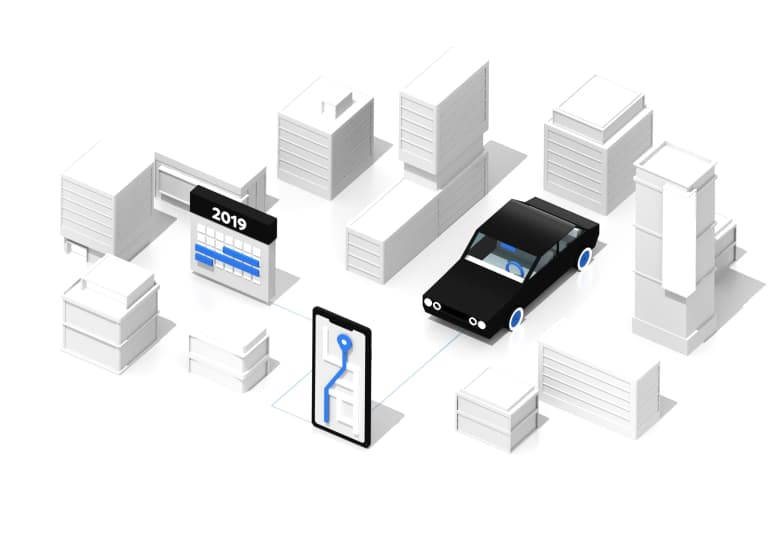
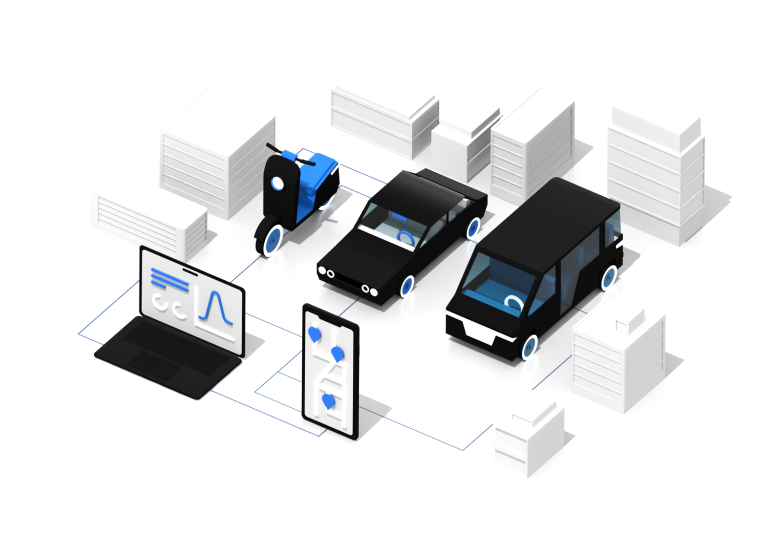
new rent page going live - ready for a/b/c test

Changed region(s): [[0.0613, 0.1194, 0.9808, 0.8955], [0.0613, 0.5373, 0.092, 0.5672]]

diff --git a/_includes/static/block-rent-main.html b/_includes/static/block-rent-main.html
@@ -27,13 +27,17 @@
 
       <section id="section-os">
         <div class="row">
-          <div class="col-lg-10 offset-lg-2">
+          <div class="col-lg-9 offset-lg-3">
 
             <div class="row">
               <div class="col-md-5">
-                <h2 class="page-heading">Digitalize your existing operations or get your business off the ground</h2>
+                <h2 class="page-heading">Getting your booking rates up is easier than you think</h2>
                 <p class="lead">
-                  Take full control of your rental business with our all-in-one platform. Whether you’re operating an existing fleet or just getting started, we’ll provide you with industry-leading software and hardware to stay ahead of the competition.
+                  Revamp your rental company with minimal effort. Our software can help you get your utilization rate above <strong class="text-blue">90%</strong>.
+                </p>
+                <br>
+                <p class="lead">
+                  And we move fast - let's get your new-and-improved rental company ready within <strong class="text-blue"> 6 weeks</strong>.
                 </p>
               </div>
               <div class="col-sm-7 offset-sm-2 offset-md-0">
@@ -49,55 +53,75 @@
       <div class="product-area">
 
         <section id="section-value" class="product-section grid-section pb-5" >
-          <div class="wunder-bg right top-1"></div>
+          <div class="wunder-bg left top-1"></div>
           <div class="row">
-            <div class="col-lg-10 offset-lg-2">
-              <h2 class="page-heading mb-2">Your Benefits</h2>
-              <p class="lead text-grey2 mb-4">Here are a few of the ways Wunder Rent can help you make the most of your business:</p>
-              <div class="row">
-                <div class="col-lg-11 offset-lg-1">
-
-                  <div class="icon-grid__grid">
-                    <div class="icon-grid__item without-icon">
-                      <!--<img src="/uploads/global/parking-meter.svg" alt="Parking Meter icon" /> -->
-                      <h3 class="mt-2">Increase Utilization Rate</h3>
-                      <p class="mt-2">Never let your vehicles stand idle again.</p>
-                    </div>
-                    <div class="icon-grid__item without-icon">
-                      <!--<img src="/uploads/global/dollarbill.svg" alt="Dollar Bill" > -->
-                      <h3 class="mt-2">Digitize your operations</h3>
-                      <p class="mt-2">Bring your fleet into the 21st century.</p>
-                    </div>
-                    <div class="icon-grid__item without-icon">
-                      <!--<img src="/uploads/global/happy-face.svg" alt="Happy face"> -->
-                      <h3 class="mt-2">Stay Competitive</h3>
-                      <p class="mt-2">Keep up with demand with  cutting-edge technology.</p>
+            <div class="col-lg-9 offset-lg-3">
+              <h2 class="page-heading mb-5 pb-4">Your Benefits</h2>
+              {% comment %}<p class="lead text-grey2 mb-5 pb-4">Here are a few of the ways Wunder Rent can help you make the most of your business:</p>{% endcomment %}
+              <div class="row justify-content-center">
+                <div class="col-12 col-sm-8 col-md-4">
+                  <div class="icon-feature d-flex flex-md-column align-items-center align-items-md-start mb-5">
+                    <img class="mb-md-4 wide" src="/uploads/global/bluecar.svg" alt="A modern blue car icon" />
+                    <div class="d-flex flex-column d-md-block icon-feature__text pr-3">
+                      <h3 class="mb-2">Increase Utilization Rate</h3>
+                      <p>Never let your vehicles stand idle again.</p>
                     </div>
                   </div>
-
+                </div>
+                <div class="col-12 col-sm-8 col-md-4">
+                  <div class="icon-feature d-flex flex-md-column align-items-center align-items-md-start mb-5">
+                    <img class="mb-md-4" src="/uploads/global/paperless.svg" alt="An icon showing a laptop and a mobile phone" />
+                    <div class="d-flex flex-column d-md-block icon-feature__text">
+                      <h3 class="mb-2">Go Paperless</h3>
+                      <p>Digitize your documents & access them in the cloud 24/7.</p>
+                    </div>
+                  </div>
+                </div>
+                <div class="col-12 col-sm-8 col-md-4">
+                  <div class="icon-feature d-flex flex-md-column align-items-center align-items-md-start mb-5">
+                    <img class="mb-md-4" src="/uploads/global/payment.svg" alt="An icon showing a mobile phone and a credit card" />
+                    <div class="d-flex flex-column d-md-block icon-feature__text">
+                      <h3 class="mb-2">Online Booking & Payments</h3>
+                      <p>Your customers are already online - you could be, too.</p>
+                    </div>
+                  </div>
                 </div>
               </div>
+
             </div>
           </div>
         </section>
 
-        <section id="section-app1" class="product-section" >
-          <div class="wunder-bg left top-2"></div>
+        <section id="section-app1" class="product-section customer-app" >
+          <div class="wunder-bg right top-2"></div>
           <div class="row">
             <div class="col-lg-9 offset-lg-3">
+              <h2 class="page-heading">Your Customer's Experience</h2>
               <div class="row">
                 <div class="col-md-5 order-md-0 align-self-center">
-                  <h2 class="page-heading">Customer Experience</h2>
                   <div class="feature-list">
                     <div class="single-feature">
                       <div class="m-body">
-                        <h3 class="text-blue">Plan A Ride</h3>
-                        <p>Users can book weeks in advance with a convenient calendar view or on the spot when they see a vehicle.</p>
+                        <h3 class="text-blue">Booking in Advance</h3>
+                        <p>Users book weeks in advance with a convenient calendar view or on the spot when they see a vehicle.</p>
                       </div>
                     </div>
                   </div>
                 </div>
                 <div class="col-md-6 offset-md-1 order-md-1 text-center">
+                  <svg id="connecting-svg" width="553" height="791" viewBox="0 0 553 791" preserveAspectRatio="none" fill="none" xmlns="http://www.w3.org/2000/svg">
+                    <path id="connecting-path" d="
+                      M 551.5 0
+                      V 42.5
+                      C 551.5 48.0228 547.023 52.5 541.5 52.5
+                      H 11
+                      C 5.47716 52.5 1 56.9772 1 62.5
+                      V 701
+                      C 1 706.523 5.47715 711 11 711
+                      H 541.5
+                      C 547.023 711 551.5 715.477 551.5 721
+                      V 790.5" stroke="#2781FF" stroke-width="2" />
+                  </svg>
                   <img src="/uploads/global/rent-date.png" srcset="/uploads/global/rent-date@2x.png 2x" class="product-image" />
                 </div>
               </div>
@@ -105,45 +129,22 @@
           </div>
         </section>
 
-        <section id="section-app2" class="product-section" >
-          <div class="wunder-bg right top-3"></div>
+        <section id="section-app2" class="product-section customer-app" >
+          <div class="wunder-bg left top-3"></div>
           <div class="row">
-            <div class="col-lg-9 offset-lg-3">
+            <div class="col-lg-10 offset-lg-2">
               <div class="row">
-                <div class="col-md-5 offset-md-1 order-md-1 align-self-center">
+                <div class="col-md-5 order-md-1 offset-md-0 align-self-center">
                   <div class="feature-list">
                     <div class="single-feature">
                       <div class="m-body">
-                        <h3 class="text-blue">Choose a Vehicle</h3>
-                        <p>Users can select their vehicle type of choice and if they’d prefer to have a full tank or no fuel included.</p>
-                      </div>
-                    </div>
-                  </div>
-                </div>
-                <div class="col-md-6 order-md-0 text-center">
-                  <img src="/uploads/global/rent-choose.png" srcset="/uploads/global/rent-choose@2x.png 2x" class="product-image" />
-                </div>
-              </div>
-            </div>
-          </div>
-        </section>
-
-        <section id="section-app3" class="product-section" >
-          <div class="wunder-bg left top-4"></div>
-          <div class="row">
-            <div class="col-lg-9 offset-lg-3">
-              <div class="row">
-                <div class="col-md-5 order-md-0 align-self-center">
-                  <div class="feature-list">
-                    <div class="single-feature">
-                      <div class="m-body">
-                        <h3 class="text-blue">Confirm the Details</h3>
+                        <h3 class="text-blue">Confirming The Details</h3>
                         <p>After choosing their vehicle, users can decide on paying in advance or paying at pick-up. Reservation dates are confirmed and then it’s on to the next step.</p>
                       </div>
                     </div>
                   </div>
                 </div>
-                <div class="col-md-6 offset-md-1 order-md-1 text-center">
+                <div class="col-md-6 order-md-0 text-center">
                   <img src="/uploads/global/rent-needs.png" srcset="/uploads/global/rent-needs@2x.png 2x" class="product-image" />
                 </div>
               </div>
@@ -151,24 +152,24 @@
           </div>
         </section>
 
-        <section id="section-app4" class="product-section" >
-          <div class="wunder-bg right top-5"></div>
+        <section id="section-app3" class="product-section customer-app" >
+          <div class="wunder-bg right top-4"></div>
           <div class="row">
             <div class="col-lg-9 offset-lg-3">
               <div class="row">
-                <div class="col-md-5 offset-md-1 order-md-1 align-self-center">
+                <div class="col-md-5 offset-md-1 order-md-0 align-self-center">
                   <div class="feature-list">
                     <div class="single-feature">
                       <div class="m-body">
-                        <h3 class="text-blue">Convenient Pick Up</h3>
-                        <p>The perfect vehicle is never far away. Users choose the nearest pick-up location and can view helpful vehicle details like fuel level.</p>
+                        <h3 class="text-blue">Pick Up & Go</h3>
+                        <p>The perfect vehicle is never far away. Users choose the nearest pick-up location and view helpful details like fuel level.</p>
                         <br>
                         <p><strong>Once they’ve reached the vehicle, that’s it - users can unlock and drive away! </strong></p>
                       </div>
                     </div>
                   </div>
                 </div>
-                <div class="col-md-6 order-md-0 text-center">
+                <div class="col-md-6 order-md-1 text-center">
                   <img src="/uploads/global/rent-pickup.png" srcset="/uploads/global/rent-pickup@2x.png 2x" class="product-image" />
                 </div>
               </div>
@@ -348,7 +349,7 @@
       <section id="section-features" class="product-section pt-5" >
         <div class="row pt-5">
           <div class="col-lg-9 offset-lg-3">
-            <h2 class="page-heading pb-4">Useful features that enhance your rental operations</h2>
+            <h2 class="page-heading pb-4">Six ways Wunder Rent can boost your rental business</h2>
             <div class="row">
               <div class="col-12 col-sm-6 col-md-4">
                 <div class="icon-feature d-flex flex-md-column align-items-center align-items-md-start mb-5">

diff --git a/assets/js/main.js b/assets/js/main.js
@@ -547,25 +547,36 @@ var scroller = {
     window.msRequestAnimationFrame ||
     window.oRequestAnimationFrame;
     var $window = $(window);
+    this.initPath();
     var lastScrollTop = $window.scrollTop();
+    var pathRect = scroller.path.getBoundingClientRect();
     if(raf) {
       loop();
-      scroller.scroll(lastScrollTop);
+      scroller.scroll(lastScrollTop, pathRect);
     }
     function loop() {
       var scrollTop = $window.scrollTop();
+      var pathRect = scroller.path.getBoundingClientRect();
       if (lastScrollTop === scrollTop) {
         raf(loop);
         return;
       } else {
         lastScrollTop = scrollTop;
         // fire scroll function if scrolls vertically
-        scroller.scroll(lastScrollTop);
+        scroller.scroll(lastScrollTop, pathRect);
         raf(loop);
       }
     }
   },
-  scroll: function(lastScrollTop) {
+  initPath: function() {
+    this.path = $("#connecting-path")[0];
+    this.pathLength = this.path.getTotalLength();
+    // Make very long dashes (the length of the path itself)
+    this.path.style.strokeDasharray = this.pathLength + ' ' + this.pathLength;
+    // Offset the dashes so the it appears hidden entirely
+    this.path.style.strokeDashoffset = this.pathLength;
+  },
+  scroll: function(lastScrollTop, rect) {
     if (lastScrollTop >= 100) {
       scroller.header.addClass("navbar-narrow");
     } else {
@@ -577,9 +588,25 @@ var scroller = {
       scroller.menuCta.removeClass('bg-from-below');
     }
     //if (scroll <= 600) $(".video-banner").css('backgroundPosition', "center "+scroll/6+"px");
+    var path = scroller.path;
+    // What % down is it?
+    var scrollPercentage = (rect.top-(document.documentElement.clientHeight/2))*-1 / rect.height;
+    // Length to offset the dashes
+    var drawLength = scroller.pathLength * scrollPercentage;
+    // Draw in reverse
+    path.style.strokeDashoffset = scroller.pathLength - drawLength;
+    // When complete, remove the dash array, otherwise shape isn't quite sharp
+   // Accounts for fuzzy math
+    if (scrollPercentage >= 0.99) {
+      path.style.strokeDasharray = "none";
+    } else {
+      path.style.strokeDasharray = scroller.pathLength + ' ' + scroller.pathLength;
+    }
+
   }
 }
 scroller.init();
+
 
 
 var googleMap = {

diff --git a/_sass/pages/_rent.scss b/_sass/pages/_rent.scss
@@ -11,6 +11,9 @@
   .product-section {
     @include rwd(desktop-up) {
       margin-top: rem(120px);
+      &.customer-app:not(#section-app1) {
+        margin-top: 2rem;
+      }
     }
 
     .product-image {
@@ -29,8 +32,8 @@
   #section-app1 {
     h2.page-heading {
       @include rwd(tablet-up) {
-        transform: translateY(-80px);
-        margin-top: -150px;
+        /*transform: translateY(-80px);
+        margin-top: -150px;*/
       }
     }
   }
@@ -48,6 +51,9 @@
     @include rwd(tablet-up){
       padding-right: 0;
       max-width: 64px;
+      &.wide {
+        max-width: 92px;
+      }
     }
   }
 
@@ -101,4 +107,20 @@
     right: -300px;
     width: calc(100% + 250px);
   }
+}
+
+
+#connecting-svg {
+  position: absolute;
+  z-index: 0;
+  top: 90%;
+  right: calc(100% - 213px);
+  @include rwd(wide-up) {
+    width: calc(100% + 70px);
+  }
+
+  path {
+    will-change: transform;
+  }
+  
 }

diff --git a/_sass/components/_icon-text.scss b/_sass/components/_icon-text.scss
@@ -130,6 +130,14 @@
     }
 
   }
+
+  &.without-cards {
+    .icon-grid__item {
+      box-shadow: none;
+      text-align: left;
+      background-color: transparent;
+    }
+  }
 }
 
 .our-teams__item:hover {
